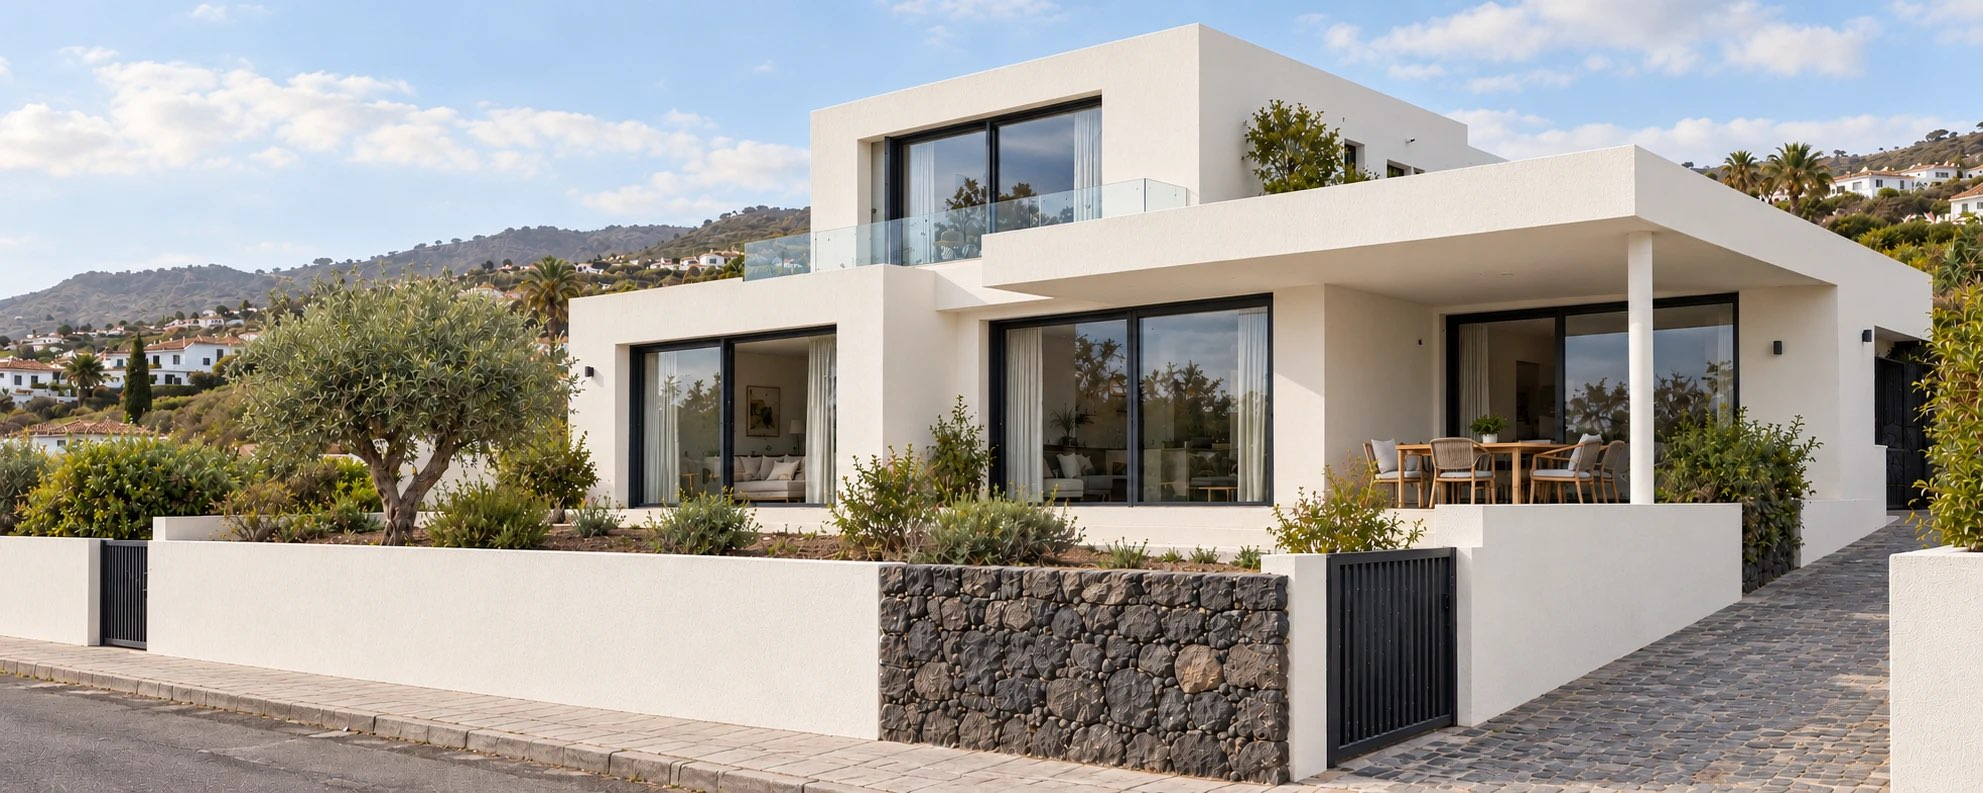
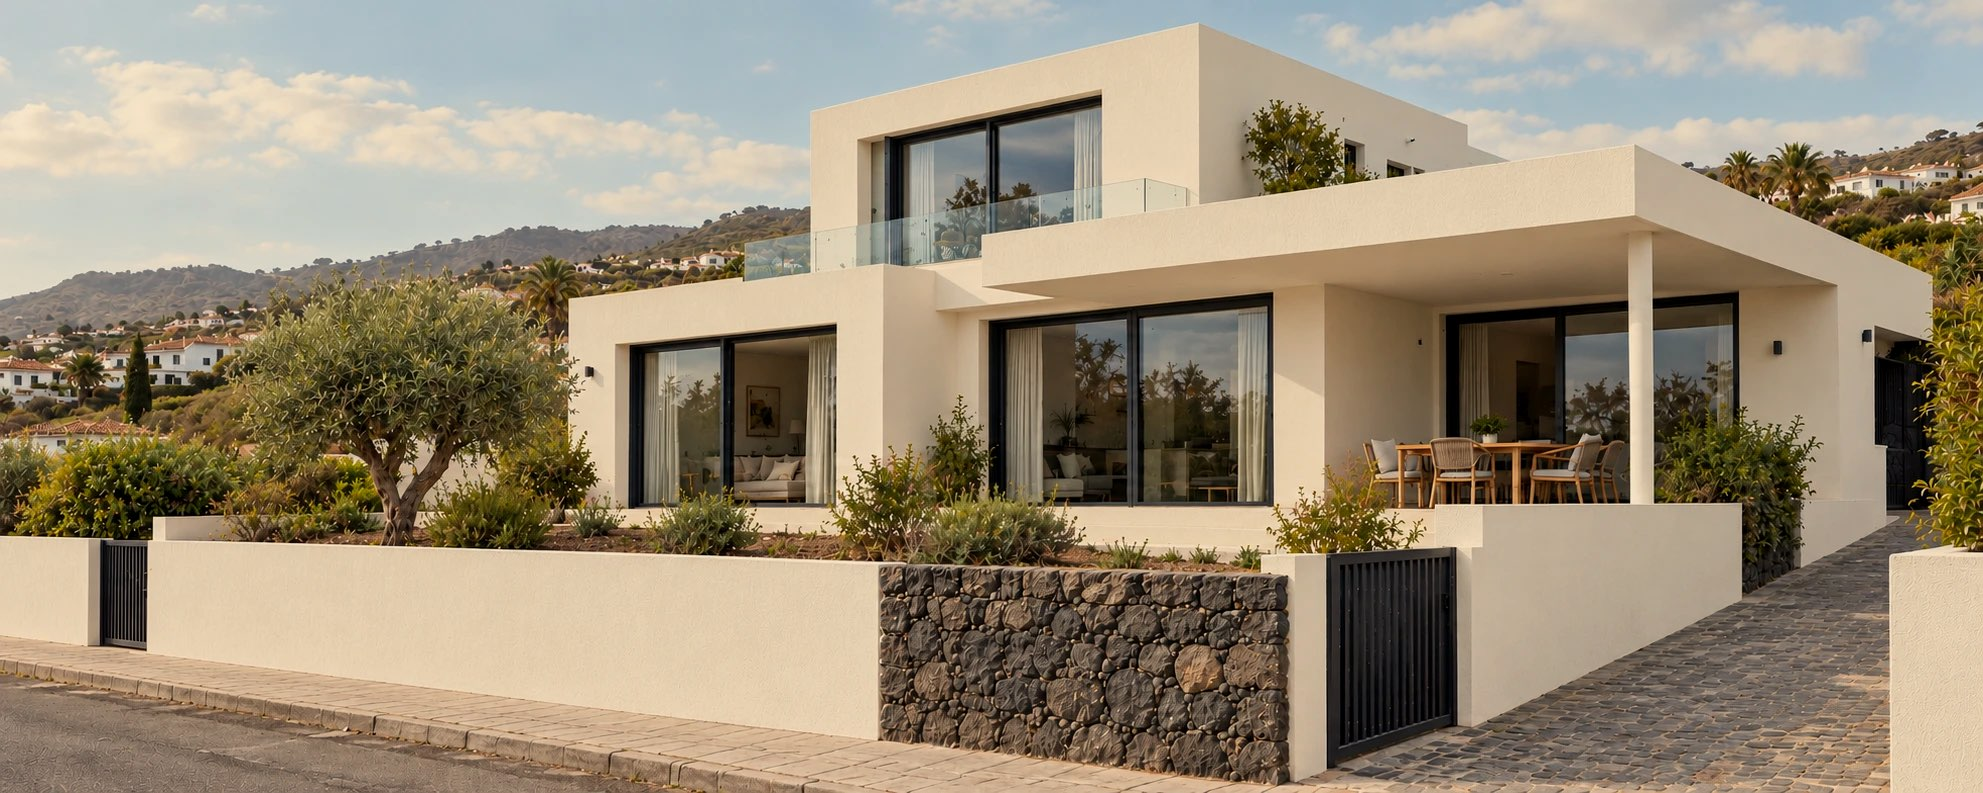
Particulares: tono dorado en «Comprar» e «Invertir» y fondo continuo bajo la foto de cabecera
- Fotos de «Comprar» e «Invertir» retocadas (más cálidas, como el resto de la web)
- Sin franja clara ni línea junto a la foto de cabecera: el fondo de «Comprar» sube hasta la mitad de la foto

diff --git a/urbecan-web/assets/css/styles.css b/urbecan-web/assets/css/styles.css
@@ -690,3 +690,11 @@ body.menu-open .fd-switch{display:none}
 
 /* Sin promociones en venta: se oculta el bloque entero (vuelve solo al añadir una) */
 .promos:not(:has(.promo-card)){display:none}
+
+/* Particulares: sin franja clara ni línea junto a la foto de cabecera. El fondo de «Comprar» sube por detrás
+   de la foto y el de la cabecera baja hasta su mitad (mitad de la altura de .lead-photo menos lo que se monta) */
+#particulares{background:#eeeae0}
+#particulares .page-lead{box-shadow:0 calc(clamp(190px,21vw,310px) - 120px) 0 #e9e6dc}
+#particulares .chapter-buy{border-top:0}
+@media(max-width:900px){#particulares .page-lead{box-shadow:0 90px 0 #e9e6dc}}
+@media(max-width:690px){#particulares .page-lead{box-shadow:0 80px 0 #e9e6dc}}
